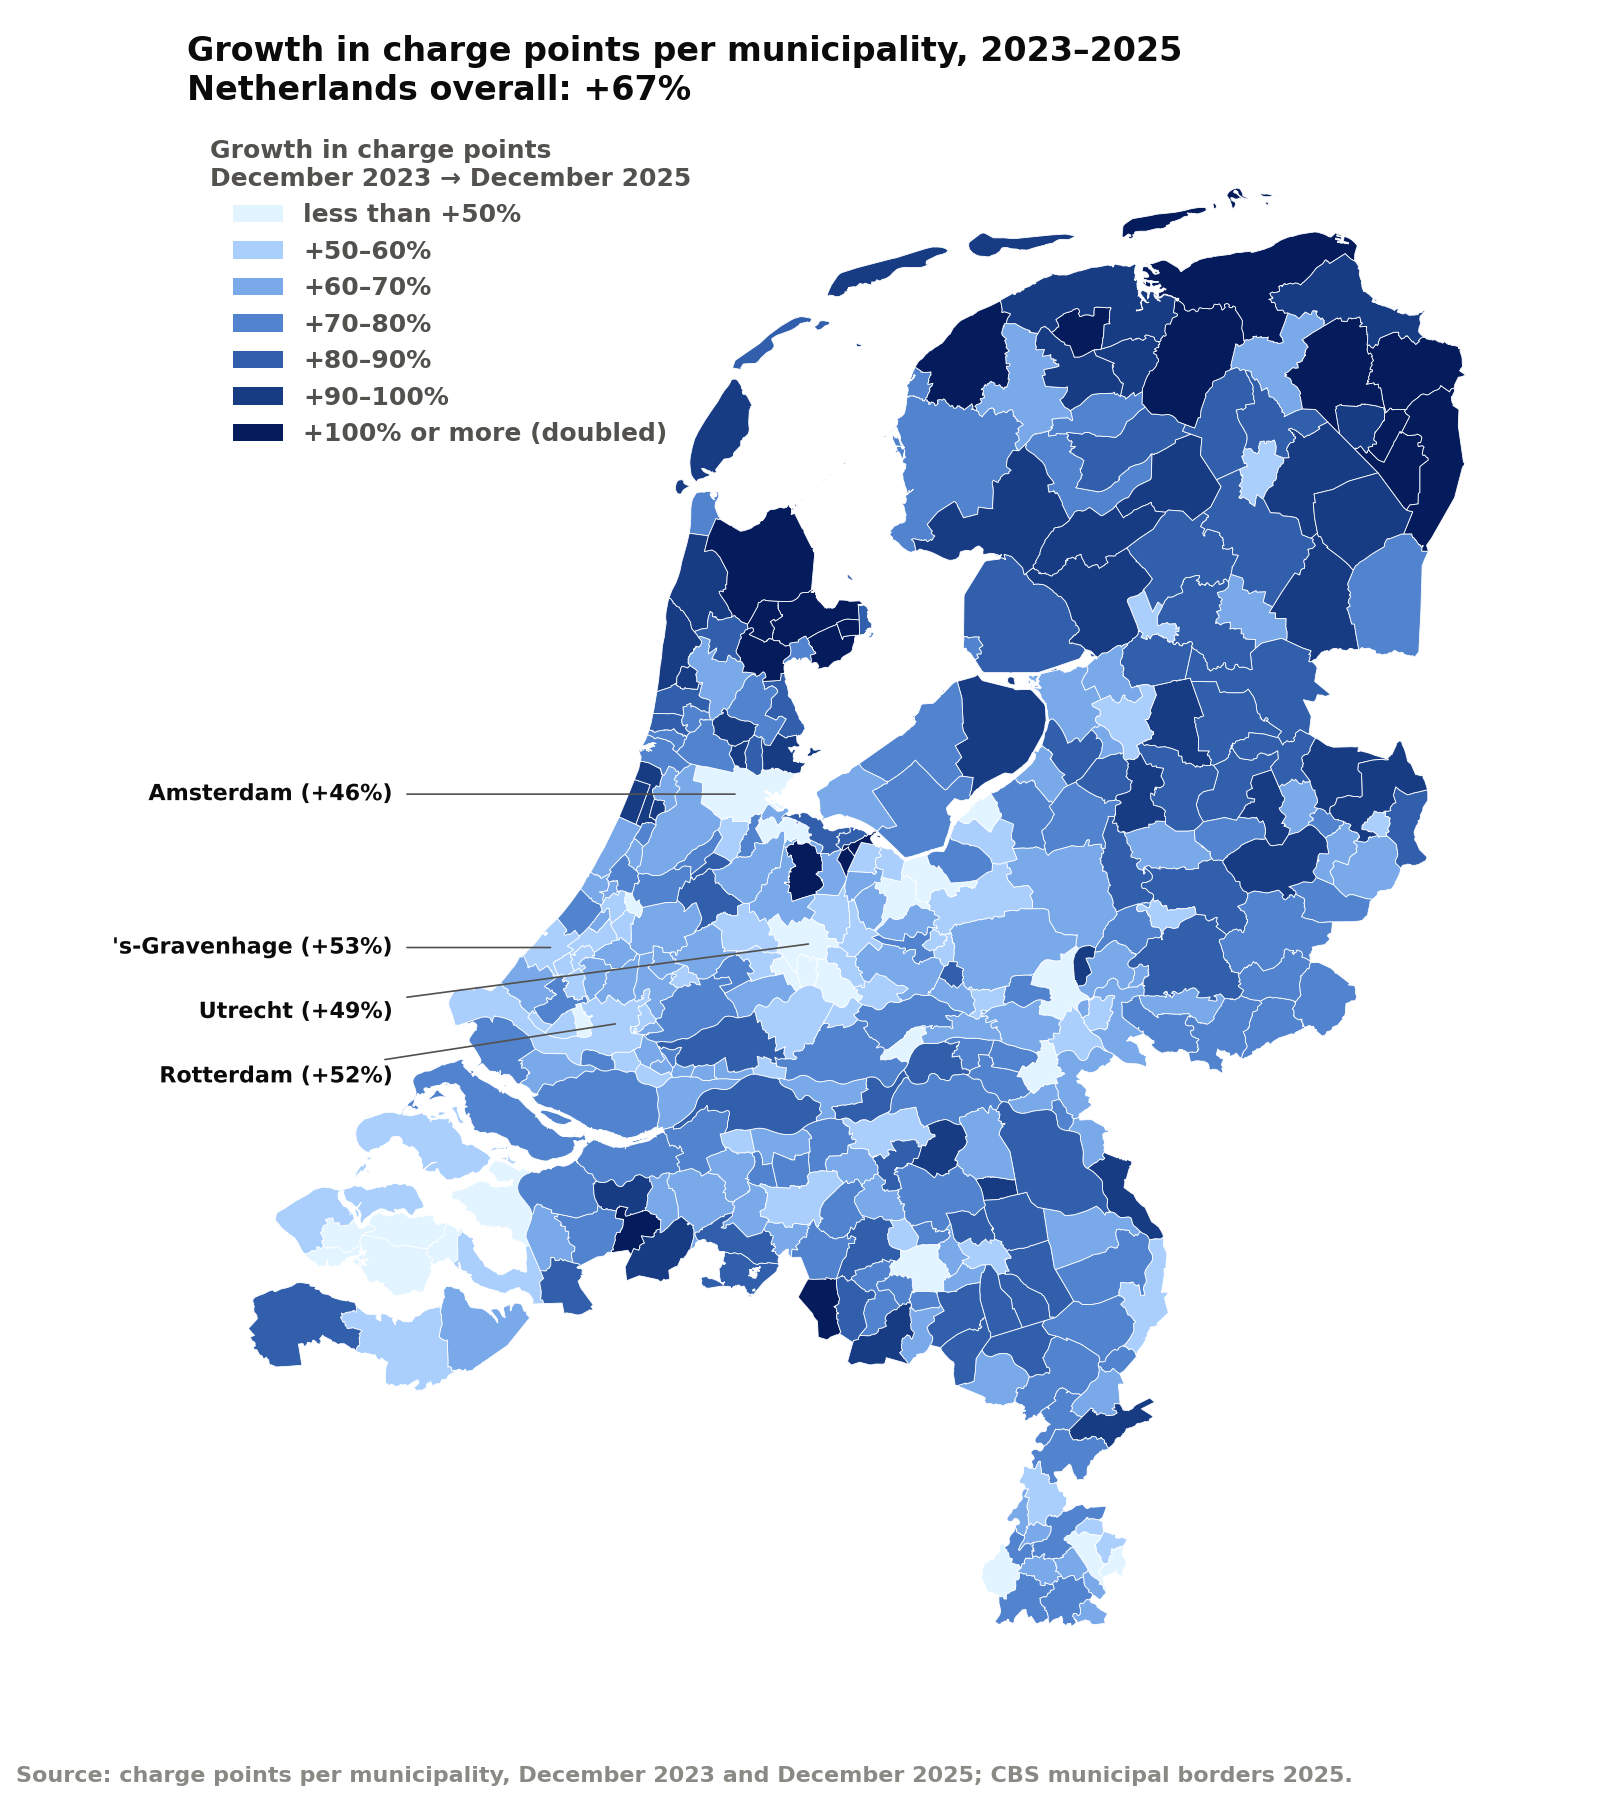
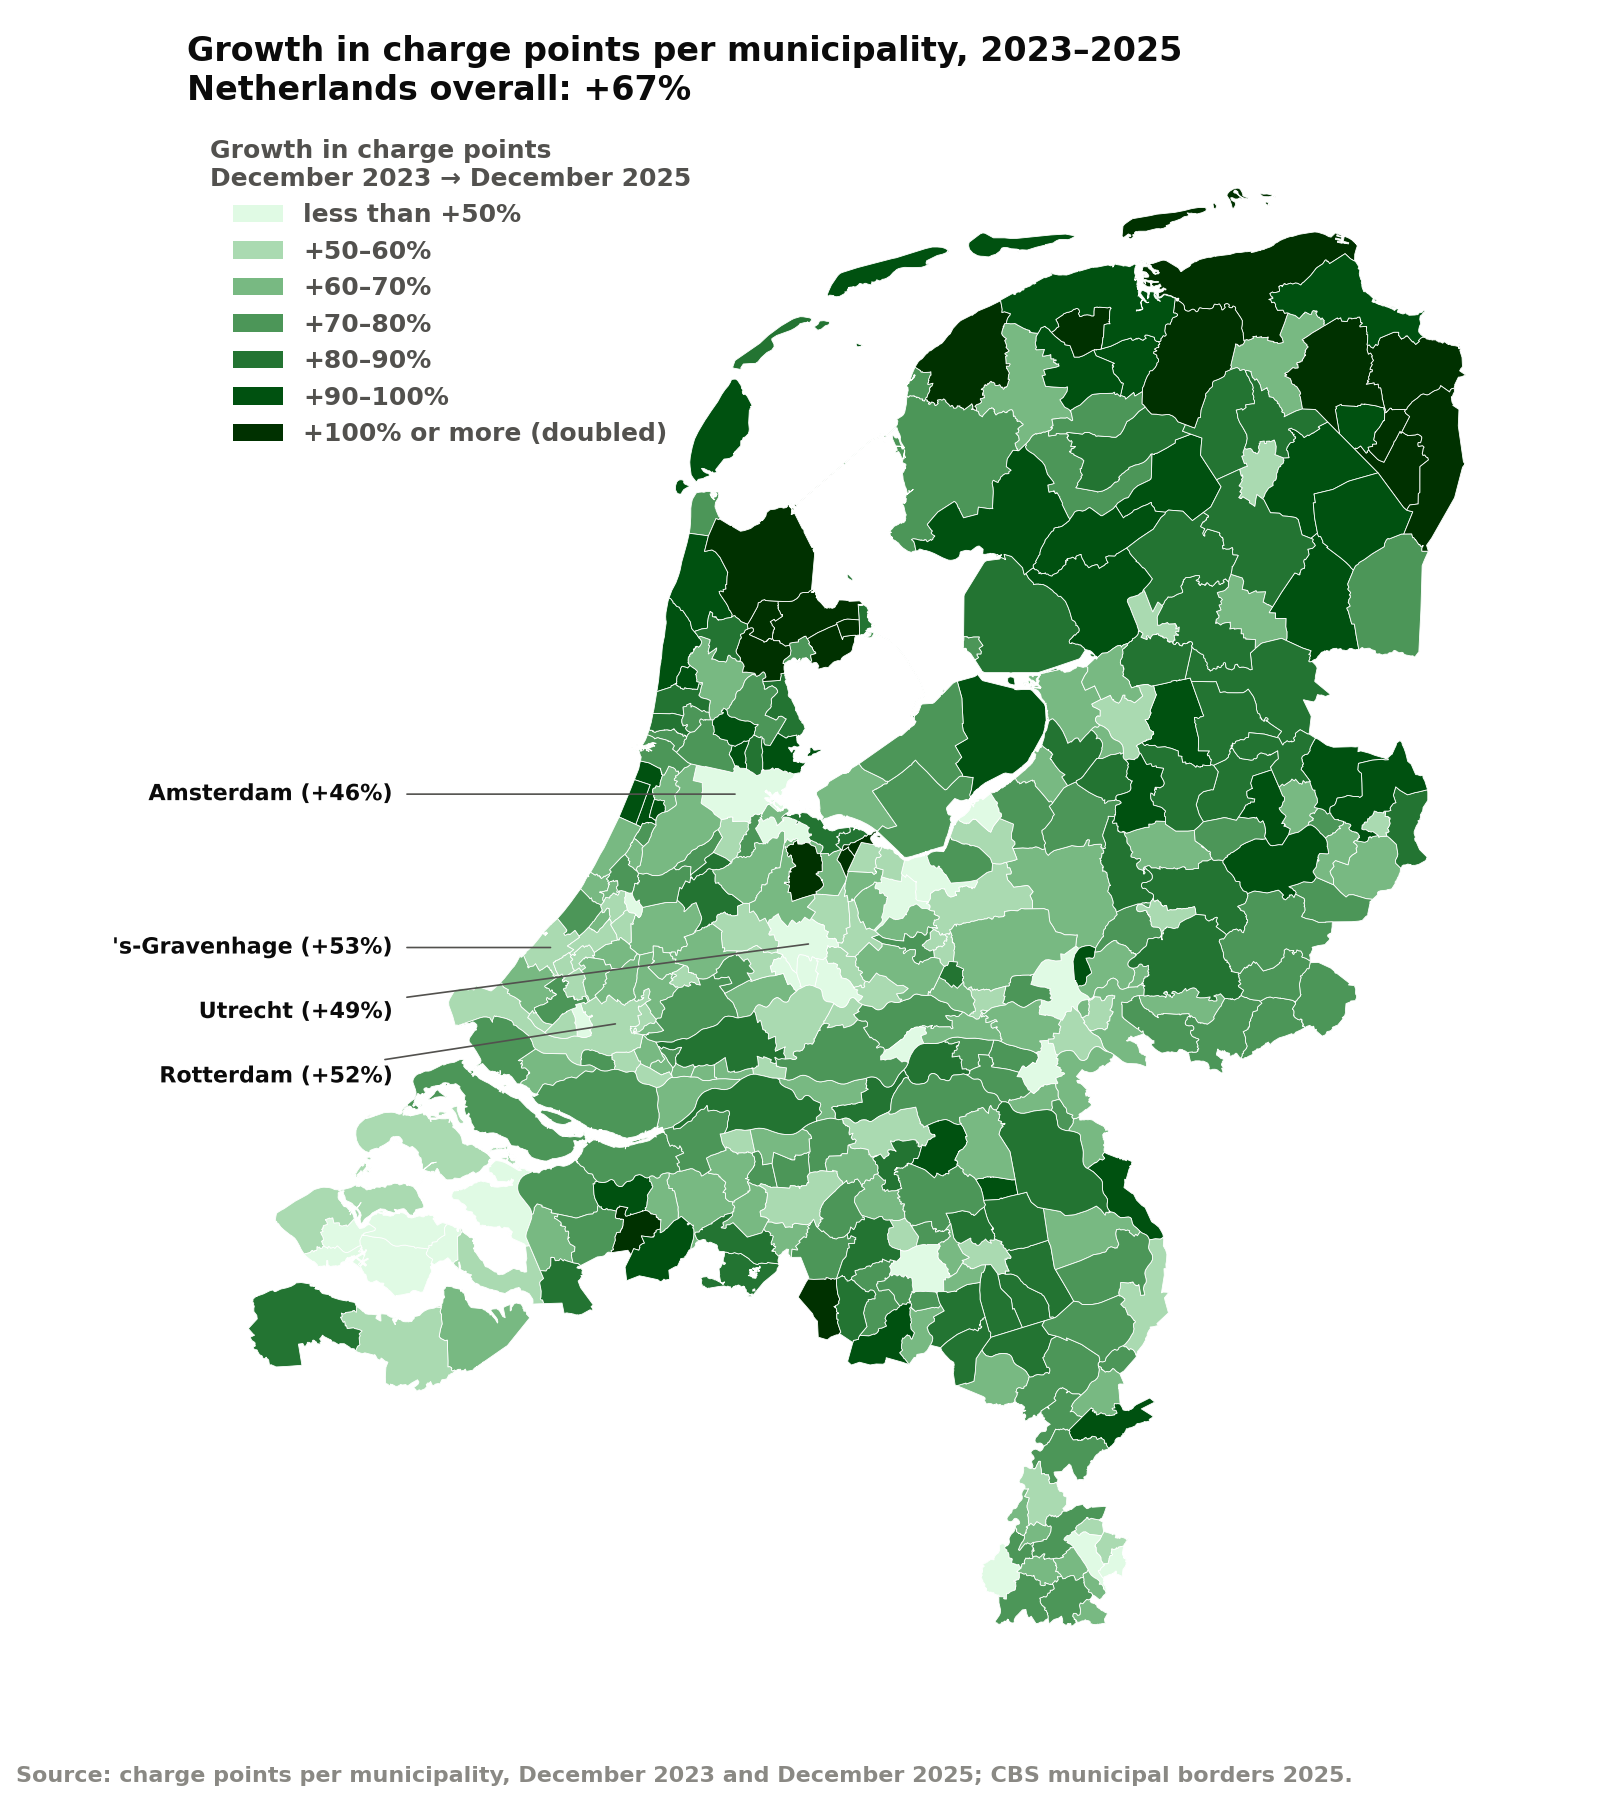
Add growth color palette for charge points and electric vehicles maps

Changed region(s): [[0.1562, 0.0933, 0.9375, 0.9022], [0.125, 0.0933, 0.1875, 0.2489], [0.5, 0.1556, 0.5312, 0.1867]]

diff --git a/src/plot_maps.py b/src/plot_maps.py
@@ -38,6 +38,8 @@ CBS_NAMES = {
 
 # One hue, very light -> very dark in even steps: a higher value is darker.
 COLORS = ["#e1f4ff", "#aacffd", "#79a9e9", "#5183ce", "#315fab", "#183c84", "#041b5c"]
+# The same steps in green, so the growth maps stand apart from the other maps.
+GROWTH_COLORS = ["#e0fae4", "#aadab1", "#78b982", "#4c9658", "#237432", "#005110", "#003100"]
 NO_DATA_COLOR = "#d6d5d0"
 INK, INK_MUTED, SOURCE_GREY = "#0b0b0b", "#52514e", "#8a8984"
 LABEL_X_M = 45_000    # RD x-coordinate (metres) where the labels end, in the North Sea
@@ -93,11 +95,11 @@ def load_evs(year: int, column: str) -> pd.DataFrame:
 
 
 def plot_map(gdf, column, bins, bin_labels, legend_title, title, label_by, label_n,
-             label_format, source, filename, no_data_label=None):
+             label_format, source, filename, no_data_label=None, palette=COLORS):
     """Choropleth of `column` in classes; names the `label_n` largest `label_by`.
     Municipalities without a value are grey, explained by `no_data_label`."""
     classes = pd.cut(gdf[column], bins, labels=False, right=False)
-    colors = classes.map(dict(enumerate(COLORS))).fillna(NO_DATA_COLOR)
+    colors = classes.map(dict(enumerate(palette))).fillna(NO_DATA_COLOR)
     fig, ax = plt.subplots(figsize=(8, 9))
     # White borders act as a thin gap between neighbouring municipalities.
     gdf.plot(ax=ax, color=colors, edgecolor="white", linewidth=0.3)
@@ -106,7 +108,7 @@ def plot_map(gdf, column, bins, bin_labels, legend_title, title, label_by, label
     add_sea_labels(ax, top, [f"{r['statnaam']} ({r[column]:{label_format}})"
                              for _, r in top.iterrows()])
 
-    handles = [Patch(facecolor=c, label=l) for c, l in zip(COLORS, bin_labels)]
+    handles = [Patch(facecolor=c, label=l) for c, l in zip(palette, bin_labels)]
     if no_data_label:
         handles.append(Patch(facecolor=NO_DATA_COLOR, label=no_data_label))
     legend = ax.legend(handles=handles, title=legend_title, loc="upper left",
@@ -199,7 +201,7 @@ def main() -> None:
              label_by="inhabitants", label_n=4, label_format="+.0%",
              source="Source: charge points per municipality, December 2023 and December "
                     "2025; CBS municipal borders 2025.",
-             filename="charge_points_growth_map.png")
+             filename="charge_points_growth_map.png", palette=GROWTH_COLORS)
 
     reliable = gdf["evs_growth"].notna()
     national = gdf.loc[reliable, "evs"].sum() / gdf.loc[reliable, "evs_2023"].sum() - 1
@@ -214,7 +216,7 @@ def main() -> None:
              no_data_label=f"fewer than {MIN_EVS_2023} electric\ncars in 2023",
              source="Source: CBS, FEV passenger cars of private persons (lease and company "
                     "cars not included),\n1 January 2023 and 2025; CBS municipal borders 2025.",
-             filename="evs_growth_map.png")
+             filename="evs_growth_map.png", palette=GROWTH_COLORS)
 
 
 if __name__ == "__main__":
